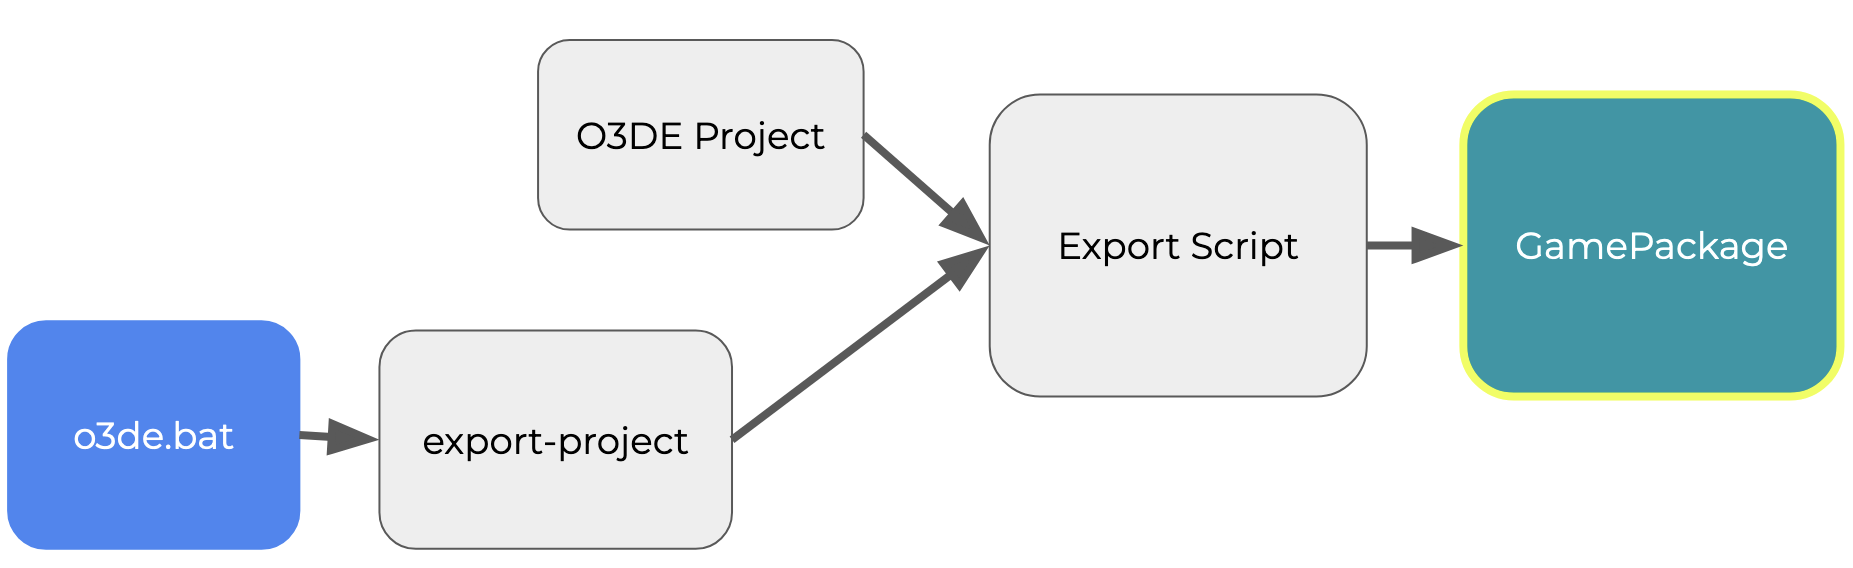
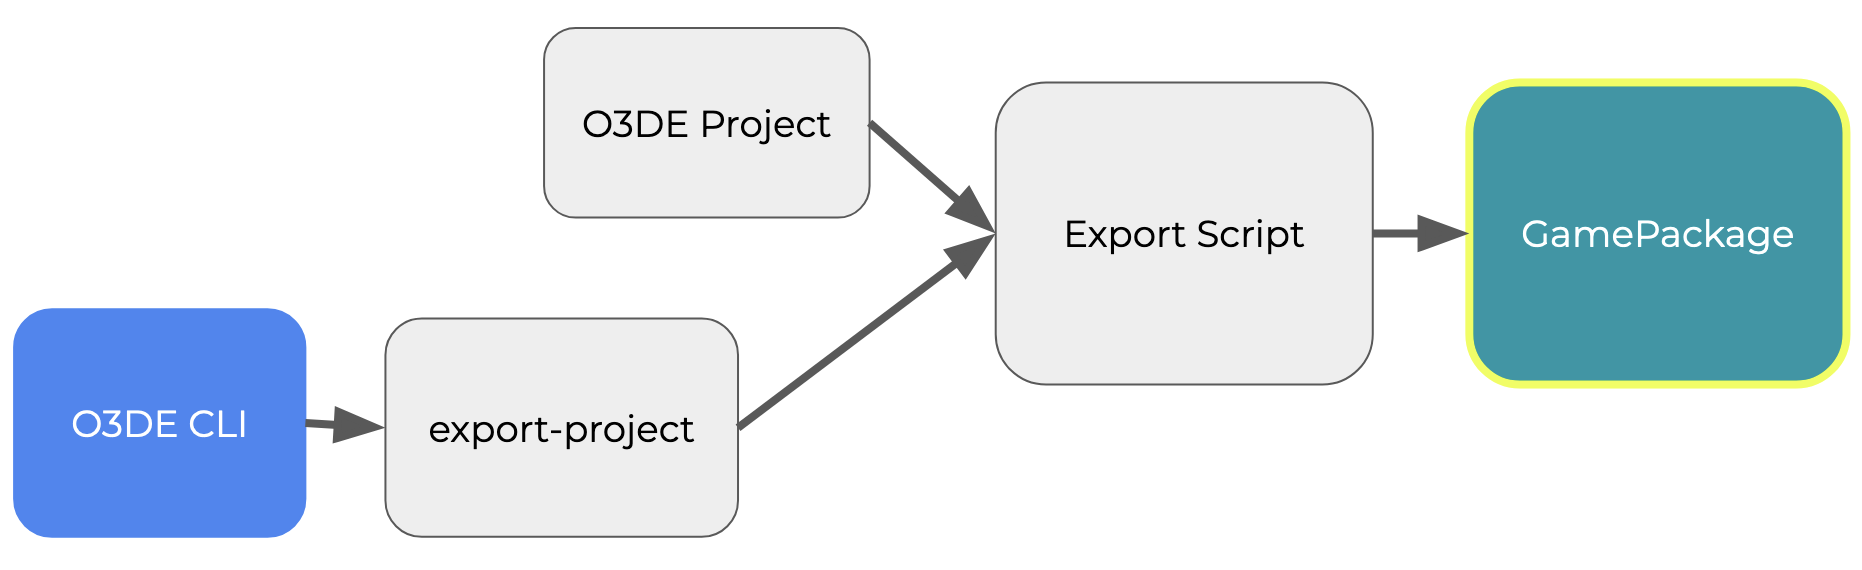
modifying project export setup diagram

diff --git a/content/docs/engine-dev/tools/o3de-cli/project-export/high-level-overview.md b/content/docs/engine-dev/tools/o3de-cli/project-export/high-level-overview.md
@@ -21,7 +21,7 @@ The `export-project` command has the following setup:
 
 The central driver of the command is the Export Script. In O3DE, the Export Script is simply any python script that the user wishes to run using the O3DE Python CLI.
 
-The way this works is that `o3de.bat` (or `o3de.sh` on Linux) [invokes](https://github.com/o3de/o3de/blob/development/scripts/o3de.py#L107-L108) the `export-project` [sub-command argument](https://github.com/o3de/o3de/blob/development/scripts/o3de.py#L79) via a specified [entry-hook](https://github.com/o3de/o3de/blob/development/scripts/o3de/o3de/export_project.py#L484). This system heavily relies on the `argparse` standard library to configure the expected function for the parsed command in a modular fashion.
+The way this works is that O3DE CLI (`o3de.bat` on Windows or `o3de.sh` on Linux) [invokes](https://github.com/o3de/o3de/blob/development/scripts/o3de.py#L107-L108) the `export-project` [sub-command argument](https://github.com/o3de/o3de/blob/development/scripts/o3de.py#L79) via a specified [entry-hook](https://github.com/o3de/o3de/blob/development/scripts/o3de/o3de/export_project.py#L484). This system heavily relies on the `argparse` standard library to configure the expected function for the parsed command in a modular fashion.
 
 Note that `export-project` only partially parses arguments. This is because the remaining arguments are fed through to the main Export Script when it runs, which will have its own argument parsing logic.
 
